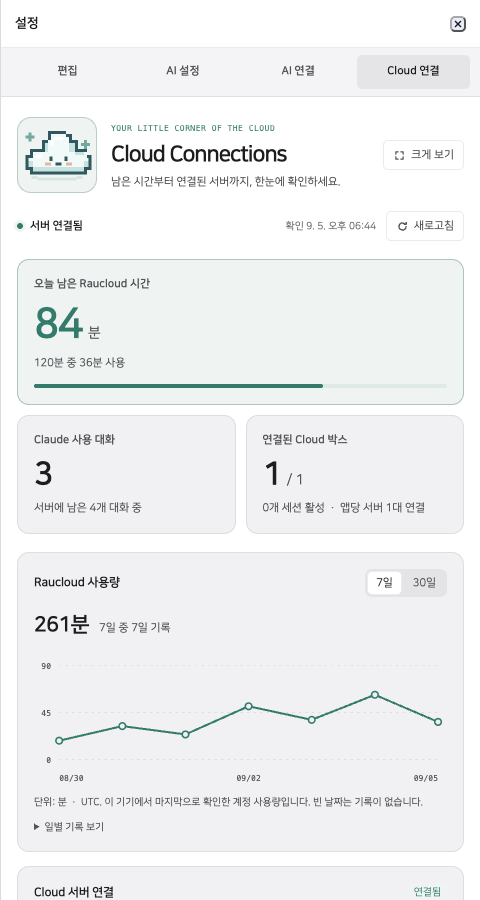
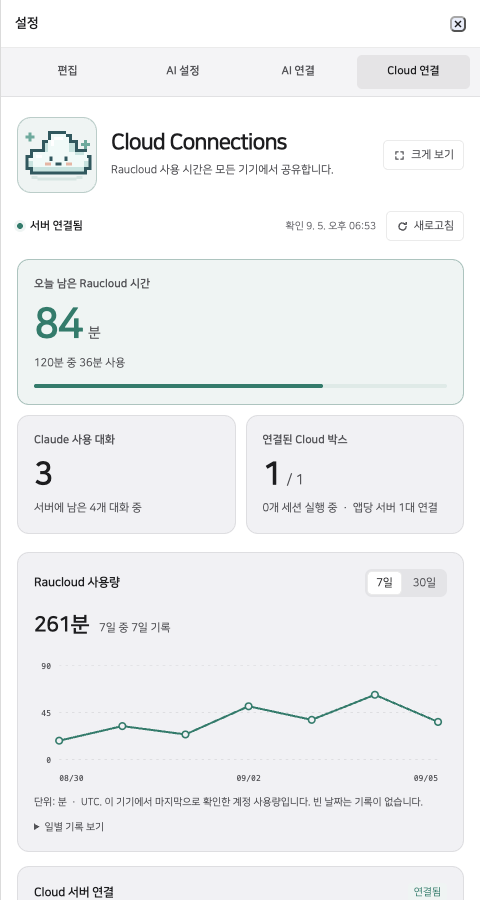
refactor(cloud): simplify dashboard copy and refresh screenshots

Changed region(s): [[0.2188, 0.1244, 0.7188, 0.2178], [0.625, 0.56, 0.9062, 0.5911]]

diff --git a/rhwp/rhwp-studio/src/ui/agent-sidebar/cloud-dashboard.ts b/rhwp/rhwp-studio/src/ui/agent-sidebar/cloud-dashboard.ts
@@ -69,9 +69,8 @@ export function createCloudDashboard(deps: CloudDashboardDeps) {
   cloud.height = 80;
   artwork.append(cloud);
   const heading = el('div', 'ag-cd-heading');
-  heading.append(el('span', 'ag-cd-eyebrow', 'YOUR LITTLE CORNER OF THE CLOUD'),
-    el('h2', 'ag-cd-title', 'Cloud Connections'),
-    el('p', 'ag-cd-subtitle', '남은 시간부터 연결된 서버까지, 한눈에 확인하세요.'));
+  heading.append(el('h2', 'ag-cd-title', 'Cloud Connections'),
+    el('p', 'ag-cd-subtitle', 'Raucloud 사용 시간은 모든 기기에서 공유합니다.'));
   const expand = button('크게 보기', 'ag-cd-expand');
   expand.prepend(createIcon('expand'));
   expand.addEventListener('click', () => element.dispatchEvent(new CustomEvent('ag-settings-expand-request', { bubbles: true })));
@@ -157,7 +156,7 @@ export function createCloudDashboard(deps: CloudDashboardDeps) {
   const reconnect = button('다시 연결', 'ag-cd-reconnect');
   server.root.append(serverIdentity, serverFacts, serverNote, reconnect);
 
-  const chats = panel('Cloud에서 사용한 대화', 'ag-cd-chats');
+  const chats = panel('Cloud 대화', 'ag-cd-chats');
   const filter = button('Claude만 보기');
   filter.setAttribute('aria-pressed', 'false');
   filter.addEventListener('click', () => {
@@ -166,14 +165,14 @@ export function createCloudDashboard(deps: CloudDashboardDeps) {
     renderSessions();
   });
   chats.head.append(filter);
-  const chatScope = el('p', 'ag-cd-muted', '현재 서버에 남아 있는 대화와 마지막으로 선택된 모델입니다.');
+  const chatScope = el('p', 'ag-cd-muted', '현재 서버에 남은 대화와 마지막으로 고른 모델입니다.');
   const chatList = el('ul', 'ag-cd-chat-list');
   chats.root.append(chatScope, chatList);
 
-  const config = panel('구성 및 사용 한도', 'ag-cd-config');
+  const config = panel('서버 설정과 사용 한도', 'ag-cd-config');
   const configFacts = el('dl', 'ag-cd-facts');
   config.root.append(configFacts, deps.configuration,
-    el('p', 'ag-cd-muted', '서버 관리에서 연결 방식과 인증을 설정할 수 있습니다.'));
+    el('p', 'ag-cd-muted', '관리 버튼에서 연결 방식과 인증을 설정하세요.'));
   content.append(header, toolbar, feedback, stats, grid);
   element.append(content);
 
@@ -187,7 +186,7 @@ export function createCloudDashboard(deps: CloudDashboardDeps) {
     if (!quiet) {
       feedback.hidden = false;
       delete feedback.dataset.kind;
-      feedback.textContent = kind === 'refresh' ? '사용량과 연결 상태를 확인하고 있습니다.' : '서버에 다시 연결하고 있습니다.';
+      feedback.textContent = kind === 'refresh' ? '사용량과 연결 상태 확인 중…' : '서버에 다시 연결 중…';
     }
     render();
     try {
@@ -196,13 +195,13 @@ export function createCloudDashboard(deps: CloudDashboardDeps) {
       snapshot = next;
       refreshError = false;
       feedback.hidden = quiet;
-      feedback.textContent = kind === 'refresh' ? '연결 상태와 서버에서 제공한 사용량을 불러왔습니다.' : '연결 상태를 다시 확인했습니다.';
+      feedback.textContent = kind === 'refresh' ? '서버 상태와 사용량을 불러왔습니다.' : '연결 상태를 확인했습니다.';
       feedback.dataset.kind = 'success';
     } catch {
       if (disposed) return;
       refreshError = true;
       feedback.hidden = false;
-      feedback.textContent = '서버에 연결하지 못했습니다. 마지막으로 확인한 정보를 표시합니다. 다시 시도해 주세요.';
+      feedback.textContent = '서버에 연결하지 못했습니다. 마지막으로 확인한 정보입니다.';
       feedback.dataset.kind = 'error';
     } finally {
       pending = false;
@@ -262,7 +261,7 @@ export function createCloudDashboard(deps: CloudDashboardDeps) {
       plot.append(label);
     });
     chart.replaceChildren(plot);
-    if (!known.length) chart.append(el('p', 'ag-cd-chart-empty', '사용량이 확인되면 여기에 기록됩니다.'));
+    if (!known.length) chart.append(el('p', 'ag-cd-chart-empty', '아직 사용 기록이 없습니다.'));
     chartNote.textContent = `단위: 분 · ${timeZone}. 이 기기에서 마지막으로 확인한 계정 사용량입니다. 빈 날짜는 기록이 없습니다.`;
     const thead = el('thead');
     const tr = el('tr');
@@ -286,7 +285,7 @@ export function createCloudDashboard(deps: CloudDashboardDeps) {
     if (signature === sessionsSignature) return;
     sessionsSignature = signature;
     chatList.replaceChildren();
-    if (!entries.length) chatList.append(el('li', 'ag-cd-empty', claudeOnly ? 'Claude로 선택된 Cloud 대화가 없습니다.' : '아직 Cloud 대화가 없습니다. 채팅에서 클라우드를 선택해 시작하세요.'));
+    if (!entries.length) chatList.append(el('li', 'ag-cd-empty', claudeOnly ? 'Claude를 선택한 대화가 없습니다.' : '아직 Cloud 대화가 없습니다. 채팅에서 클라우드를 선택해 시작하세요.'));
     entries.forEach((entry) => {
       const item = el('li', 'ag-cd-chat');
       const provider = entry.selection?.agent;
@@ -331,7 +330,7 @@ export function createCloudDashboard(deps: CloudDashboardDeps) {
     const fresh = !refreshError && allowance && Date.parse(allowance.resetAt) > Date.now();
     quota.value.replaceChildren(document.createTextNode(fresh ? minutes(allowance.remainingMs) : '—'), el('span', 'ag-cd-stat-unit', '분'));
     quota.detail.textContent = fresh ? `${minutes(allowance.dailyLimitMs)}분 중 ${minutes(allowance.usedMs)}분 사용`
-      : allowance ? '사용량을 새로고침해 주세요.' : account?.signedIn ? '사용 한도를 아직 확인하지 못했습니다.' : '로그인하면 Raucloud 한도를 확인할 수 있습니다.';
+      : allowance ? '사용량을 새로고침해 주세요.' : account?.signedIn ? '아직 사용 한도를 확인하지 못했습니다.' : '로그인하면 남은 시간을 볼 수 있습니다.';
     quota.detail.title = account ? `사용량 확인: ${formatTime(account.updatedAt)}` : '';
     meter.hidden = !fresh;
     if (fresh) {
@@ -346,12 +345,12 @@ export function createCloudDashboard(deps: CloudDashboardDeps) {
     claude.value.textContent = String(sessions.claudeChats);
     claude.detail.textContent = `서버에 남은 ${sessions.chats}개 대화 중${sessions.unknownChats ? ` · 모델 미확인 ${sessions.unknownChats}개` : ''}`;
     boxes.value.replaceChildren(document.createTextNode(ready ? '1' : '0'), el('span', 'ag-cd-stat-unit', `/ ${configured ? '1' : '0'}`));
-    boxes.detail.textContent = configured ? `${sessions.active}개 세션 활성 · 앱당 서버 1대 연결` : 'Raucloud 또는 내 서버를 연결하세요.';
+    boxes.detail.textContent = configured ? `${sessions.active}개 세션 실행 중 · 앱당 서버 1대 연결` : 'Raucloud 또는 내 서버를 연결하세요.';
 
     serverBadge.textContent = ready ? '연결됨' : state === 'pending' ? '확인 중' : state === 'unknown' ? '확인 필요' : configured ? '연결 끊김' : '미연결';
     serverBadge.dataset.state = state;
     serverName.textContent = configured ? profile.mode === 'app-hosted' ? profile.name : profile.profile.name : '내 Cloud 박스';
-    serverHost.textContent = configured ? profile.mode === 'app-hosted' ? profile.sandbox.host : profile.profile.host : '서버를 설정하면 연결 상태가 표시됩니다.';
+    serverHost.textContent = configured ? profile.mode === 'app-hosted' ? profile.sandbox.host : profile.profile.host : '연결 설정에서 서버를 추가하세요.';
     facts(serverFacts, [
       ['서버 유형', configured ? profile.mode === 'app-hosted' ? 'Raucloud' : '내 서버' : '미설정'],
       ['리전 / 연결', configured ? profile.mode === 'app-hosted' ? profile.sandbox.region || '정보 없음' : profile.profile.transport.kind === 'ssh-tunnel' ? 'SSH 터널' : profile.profile.transport.kind === 'tailscale' ? 'Tailscale' : 'HTTPS' : '—'],
@@ -362,7 +361,7 @@ export function createCloudDashboard(deps: CloudDashboardDeps) {
       : gate?.kind === 'exhausted' ? '오늘의 Raucloud 시간을 모두 사용했습니다. 초기화 후 다시 시작할 수 있습니다.'
       : gate?.kind === 'unavailable' ? gate.reason
       : gate?.kind === 'logged-out' ? 'Raucloud를 사용하려면 Rauhwpx 계정으로 로그인하세요.'
-      : state === 'failed' ? '서버 응답이 없습니다. 다시 연결하거나 서버 관리에서 구성을 확인하세요.'
+      : state === 'failed' ? '서버가 응답하지 않습니다. 다시 연결하거나 서버 설정을 확인하세요.'
       : ready ? '채팅과 문서 작업에 사용할 수 있습니다.' : '서버 관리에서 연결을 설정하세요.';
     facts(configFacts, [
       ['한도 초기화', allowance ? `${formatTime(allowance.resetAt, allowance.timeZone)} · ${allowance.timeZone}` : '사용량 확인 후 표시'],

diff --git a/rhwp/rhwp-studio/src/ui/agent-sidebar/cloud-dashboard.css b/rhwp/rhwp-studio/src/ui/agent-sidebar/cloud-dashboard.css
@@ -12,8 +12,7 @@
 .ag-cd-artwork { display: grid; flex: 0 0 112px; height: 100px; place-items: center; background: var(--cd-tint); border: 1px solid color-mix(in srgb, var(--cd-accent) 20%, var(--ag-border)); border-radius: 20px; }
 .ag-cd-pixel-cloud { width: 104px; height: 80px; image-rendering: pixelated; }
 .ag-cd-heading { flex: 1; min-width: 0; }
-.ag-cd-eyebrow { color: var(--cd-accent); font: 9px/1.4 ui-monospace, monospace; letter-spacing: .13em; }
-.ag-cd-title { margin: 5px 0 6px; font-size: clamp(22px, 3cqi, 30px); font-weight: 720; letter-spacing: -.045em; line-height: 1.2; }
+.ag-cd-title { margin: 0 0 6px; font-size: clamp(22px, 3cqi, 30px); font-weight: 720; letter-spacing: -.045em; line-height: 1.2; }
 .ag-cd-subtitle, .ag-cd-muted { margin: 0; color: var(--ag-text-secondary); font-size: 11px; line-height: 1.6; overflow-wrap: anywhere; }
 .ag-cd-subtitle { font-size: 12px; }
 .ag-cd-button { display: inline-flex; align-items: center; justify-content: center; gap: 5px; min-height: 30px; padding: 4px 9px; border: 1px solid var(--ag-border); border-radius: 6px; background: var(--ag-bg); color: var(--ag-text-secondary); font: inherit; font-size: 11px; white-space: nowrap; cursor: pointer; }
@@ -99,7 +98,6 @@
   .ag-cd-header { flex-wrap: wrap; gap: 14px; margin-bottom: 18px; }
   .ag-cd-artwork { flex-basis: 80px; height: 76px; border-radius: 14px; }
   .ag-cd-pixel-cloud { width: 78px; height: 60px; }
-  .ag-cd-eyebrow { font-size: 8px; letter-spacing: .06em; }
   .ag-cd-subtitle { font-size: 11px; }
   .ag-cd-expand { margin-left: auto; }
   .ag-cd-grid { grid-template-columns: minmax(0, 1fr); gap: 14px; }
@@ -118,7 +116,6 @@
   .ag-cd-pixel-cloud { width: 62px; height: 48px; }
   .ag-cd-title { font-size: 20px; }
   .ag-cd-heading { flex: 1 1 calc(100% - 80px); }
-  .ag-cd-eyebrow { display: none; }
   .ag-cd-updated { flex-basis: 100%; margin-left: 0; order: 3; }
   .ag-cd-toolbar > .ag-cd-button { margin-left: auto; }
   .ag-cd-stat { padding: 12px; }
